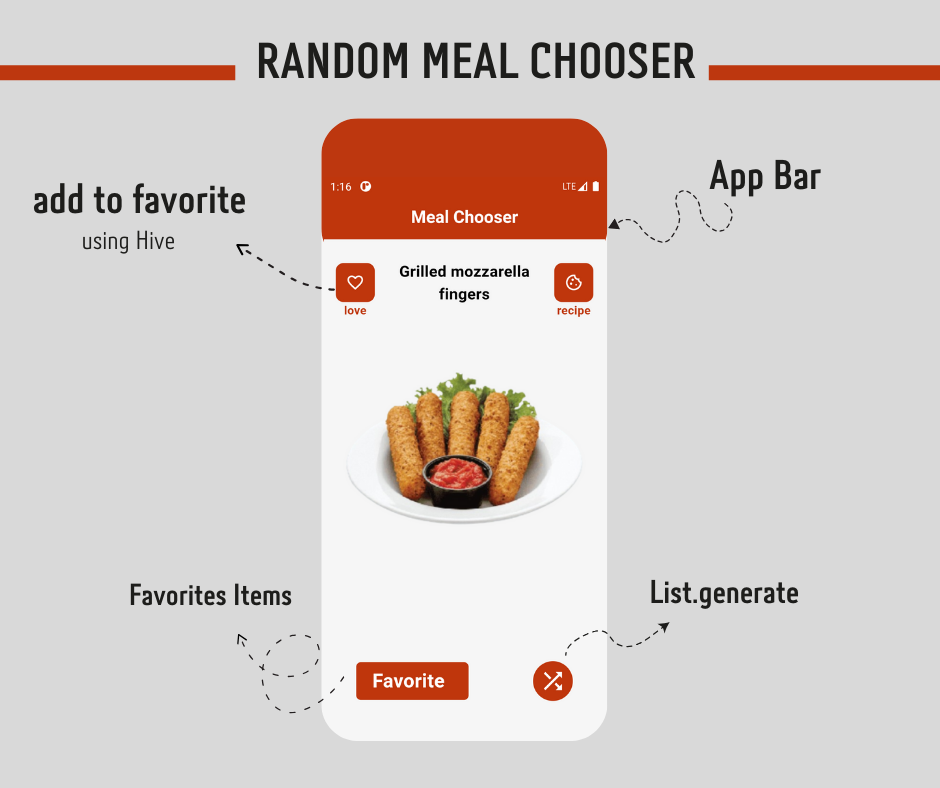
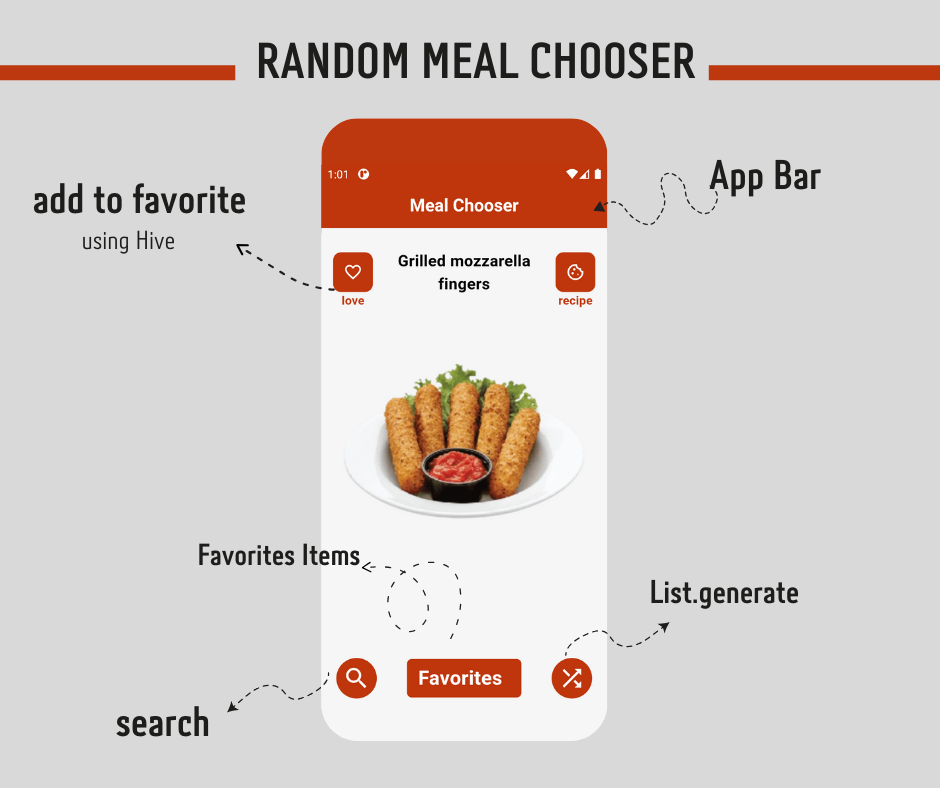
modified:   README.md 	new file:   image/search.gif 	modified:   lib/pages/home.dart 	new file:   lib/search/search.dart 	modified:   pubspec.lock 	modified:   pubspec.yaml 	modified:   ss/1.png 	modified:   ss/2.png 	modified:   ss/3.png 	new file:   ss/4.png

diff --git a/lib/search/search.dart b/lib/search/search.dart
@@ -1,0 +1,199 @@
+import 'package:flutter/material.dart';
+import 'package:mealchooser/breakfast/breakdet.dart';
+import 'package:mealchooser/breakfast/details.dart';
+import 'package:page_transition/page_transition.dart';
+import '../widgets/textstyle.dart';
+
+class Search extends StatefulWidget {
+  Search({Key? key}) : super(key: key);
+
+  @override
+  State<Search> createState() => _SearchState();
+}
+
+TextEditingController searchTextEditing = TextEditingController();
+List<Recipe> filteredMeal = [];
+
+class _SearchState extends State<Search> {
+  searchMeal(String quary) {
+    setState(() {
+      filteredMeal = Recipe.allRecipe().where((meal) {
+        return meal.name.toLowerCase().contains(quary.toLowerCase());
+      }).toList();
+    });
+  }
+
+  @override
+  Widget build(BuildContext context) {
+    return Scaffold(
+        resizeToAvoidBottomInset: false,
+        backgroundColor: Color(0xFFF6F6F6),
+        body: Padding(
+          padding: const EdgeInsets.all(15.0),
+          child: ListView(
+            children: [
+              SizedBox(
+                height: 15,
+              ),
+
+              Text(
+                'Search',
+                style: const TextStyle(
+                  color: Color(0xff403939),
+                  fontWeight: FontWeight.bold,
+                  fontSize: 27,
+                ),
+              ),
+              SizedBox(
+                height: 20,
+              ),
+              Padding(
+                padding: const EdgeInsets.symmetric(horizontal: 8),
+                child: TextField(
+                  style: TextStyle(
+                      color: Colors.black54,
+                      fontWeight: FontWeight.bold,
+                      fontSize: 21),
+                  decoration: InputDecoration(
+                      floatingLabelBehavior: FloatingLabelBehavior.always,
+                      fillColor: Colors.white,
+                      filled: true,
+                      hintStyle: TextStyle(
+                        color: Colors.grey,
+                        fontSize: 21,
+                      ),
+                      hintText: 'meal name',
+                      focusedBorder: OutlineInputBorder(
+                          borderSide:
+                              BorderSide(color: Colors.deepOrange.shade900, width: 2),
+                          borderRadius: BorderRadius.all(Radius.circular(10))),
+                      enabledBorder: OutlineInputBorder(
+                          borderSide: BorderSide(color: Colors.grey, width: 2),
+                          borderRadius: BorderRadius.all(Radius.circular(10)))),
+                  controller: searchTextEditing,
+                  onChanged: searchMeal,
+                ),
+              ),
+              if (filteredMeal.isEmpty)
+                Align(
+                  alignment: Alignment.center,
+                  child: Column(
+                    children: [
+                      Image.asset(
+                        'image/search.gif',
+                        width: MediaQuery.of(context).size.width * 0.8,
+                        height: MediaQuery.of(context).size.width * 0.8,
+                      ),
+                      Text(
+                        'start searching',
+                        style: const TextStyle(
+                          color: Color(0xFF61605D),
+                          fontSize: 20,
+                        ),
+                      ),
+                    ],
+                  ),
+                )
+              else
+                Padding(
+                  padding: const EdgeInsets.symmetric(horizontal: 8.0),
+                  child: ListView.builder(
+                    shrinkWrap: true,
+                    physics: ScrollPhysics(),
+                    itemCount: filteredMeal.length,
+                    itemBuilder: (context, index) {
+                      final meal = filteredMeal[index];
+                      return InkWell(
+                        onTap: () {
+                          Navigator.push(
+                              context,
+                              PageTransition(
+                                  type: PageTransitionType.rotate,
+                                  alignment: Alignment.center,
+                                  duration: Duration(milliseconds: 500),
+                                  child: Details(
+                                      recipe: meal.recipe,
+                                      ingrediens: meal.des,
+                                      //     image: "image/" + meal.image,
+                                      recipeName: meal.name),
+                                  childCurrent: this.widget));
+                        },
+                        child: Padding(
+                          padding: const EdgeInsets.symmetric(vertical: 10.0),
+                          child: Container(
+                            width: MediaQuery.of(context).size.width,
+                            decoration: BoxDecoration(
+                              color: Colors.deepOrange.shade900,
+                              borderRadius: BorderRadius.circular(10),
+                            ),
+                            child: Padding(
+                              padding: const EdgeInsets.symmetric(
+                                horizontal: 10,
+                              ),
+                              child: Row(
+                                mainAxisAlignment:
+                                    MainAxisAlignment.spaceBetween,
+                                children: [
+                                  Column(
+                                    mainAxisAlignment: MainAxisAlignment.start,
+                                    crossAxisAlignment:
+                                        CrossAxisAlignment.start,
+                                    children: [
+                                      Container(
+                                        width:
+                                            MediaQuery.of(context).size.width *
+                                                0.5,
+                                        child: Align(
+                                          alignment: Alignment.topRight,
+                                          child: FittedBox(
+                                            fit: BoxFit.scaleDown,
+                                            child: textStyle(
+                                                meal.name,
+                                                25,
+                                                FontWeight.bold,
+                                                Colors.white,
+                                                context,
+                                                0.1,
+                                                TextAlign.right,
+                                                top: 10,
+                                                bottom: 0,
+                                                right: 0),
+                                          ),
+                                        ),
+                                      ),
+                                      //   textStyle(
+                                      //       meal.category,
+                                      //       18,
+                                      //       FontWeight.bold,
+                                      //       Colors.white,
+                                      //       context,
+                                      //       0.09,
+                                      //       TextAlign.right,
+                                      //       top: 5,
+                                      //       bottom: 15,
+                                      //       right: 0),
+                                    ],
+                                  ),
+                                  Container(
+                                    width: MediaQuery.of(context).size.width *
+                                        0.23,
+                                    child: Image.asset(
+                                      "image/" + meal.image,
+                                    ),
+                                  ),
+                                ],
+                              ),
+                            ),
+                          ),
+                        ),
+                      );
+                    },
+                  ),
+                ),
+//),
+              //   ),
+            ],
+          ),
+        ));
+  }
+}

diff --git a/lib/pages/home.dart b/lib/pages/home.dart
@@ -1,6 +1,7 @@
 import 'package:flutter/material.dart';
 import 'package:mealchooser/breakfast/showbreak.dart';
 import 'package:mealchooser/pages/favorite.dart';
+import 'package:mealchooser/search/search.dart';
 import 'package:mealchooser/widgets/textstyle.dart';
 
 class Breakfast extends StatefulWidget {
@@ -32,6 +33,21 @@ class _BreakfastState extends State<Breakfast> {
           Row(
             mainAxisAlignment: MainAxisAlignment.spaceAround,
             children: [
+              Ink(
+                decoration: ShapeDecoration(
+                  color: Colors.deepOrange.shade900,
+                  shape: CircleBorder(),
+                ),
+                child: IconButton(
+                  onPressed: () {
+                    Navigator.push(context,
+                        MaterialPageRoute(builder: (context) => Search()));
+                  },
+                  icon: Icon(Icons.search),
+                  color: Colors.white,
+                  iconSize: 35,
+                ),
+              ),
               InkWell(
                 onTap: () {
                   Navigator.push(context,

diff --git a/README.md b/README.md
@@ -9,6 +9,7 @@ Star⭐ the repo if you like what you see😉.
 <img src="ss/1.png"/>
 <img src="ss/2.png"/>
 <img src="ss/3.png"/>
+<img src="ss/4.png"/>
 
 ----------
 
